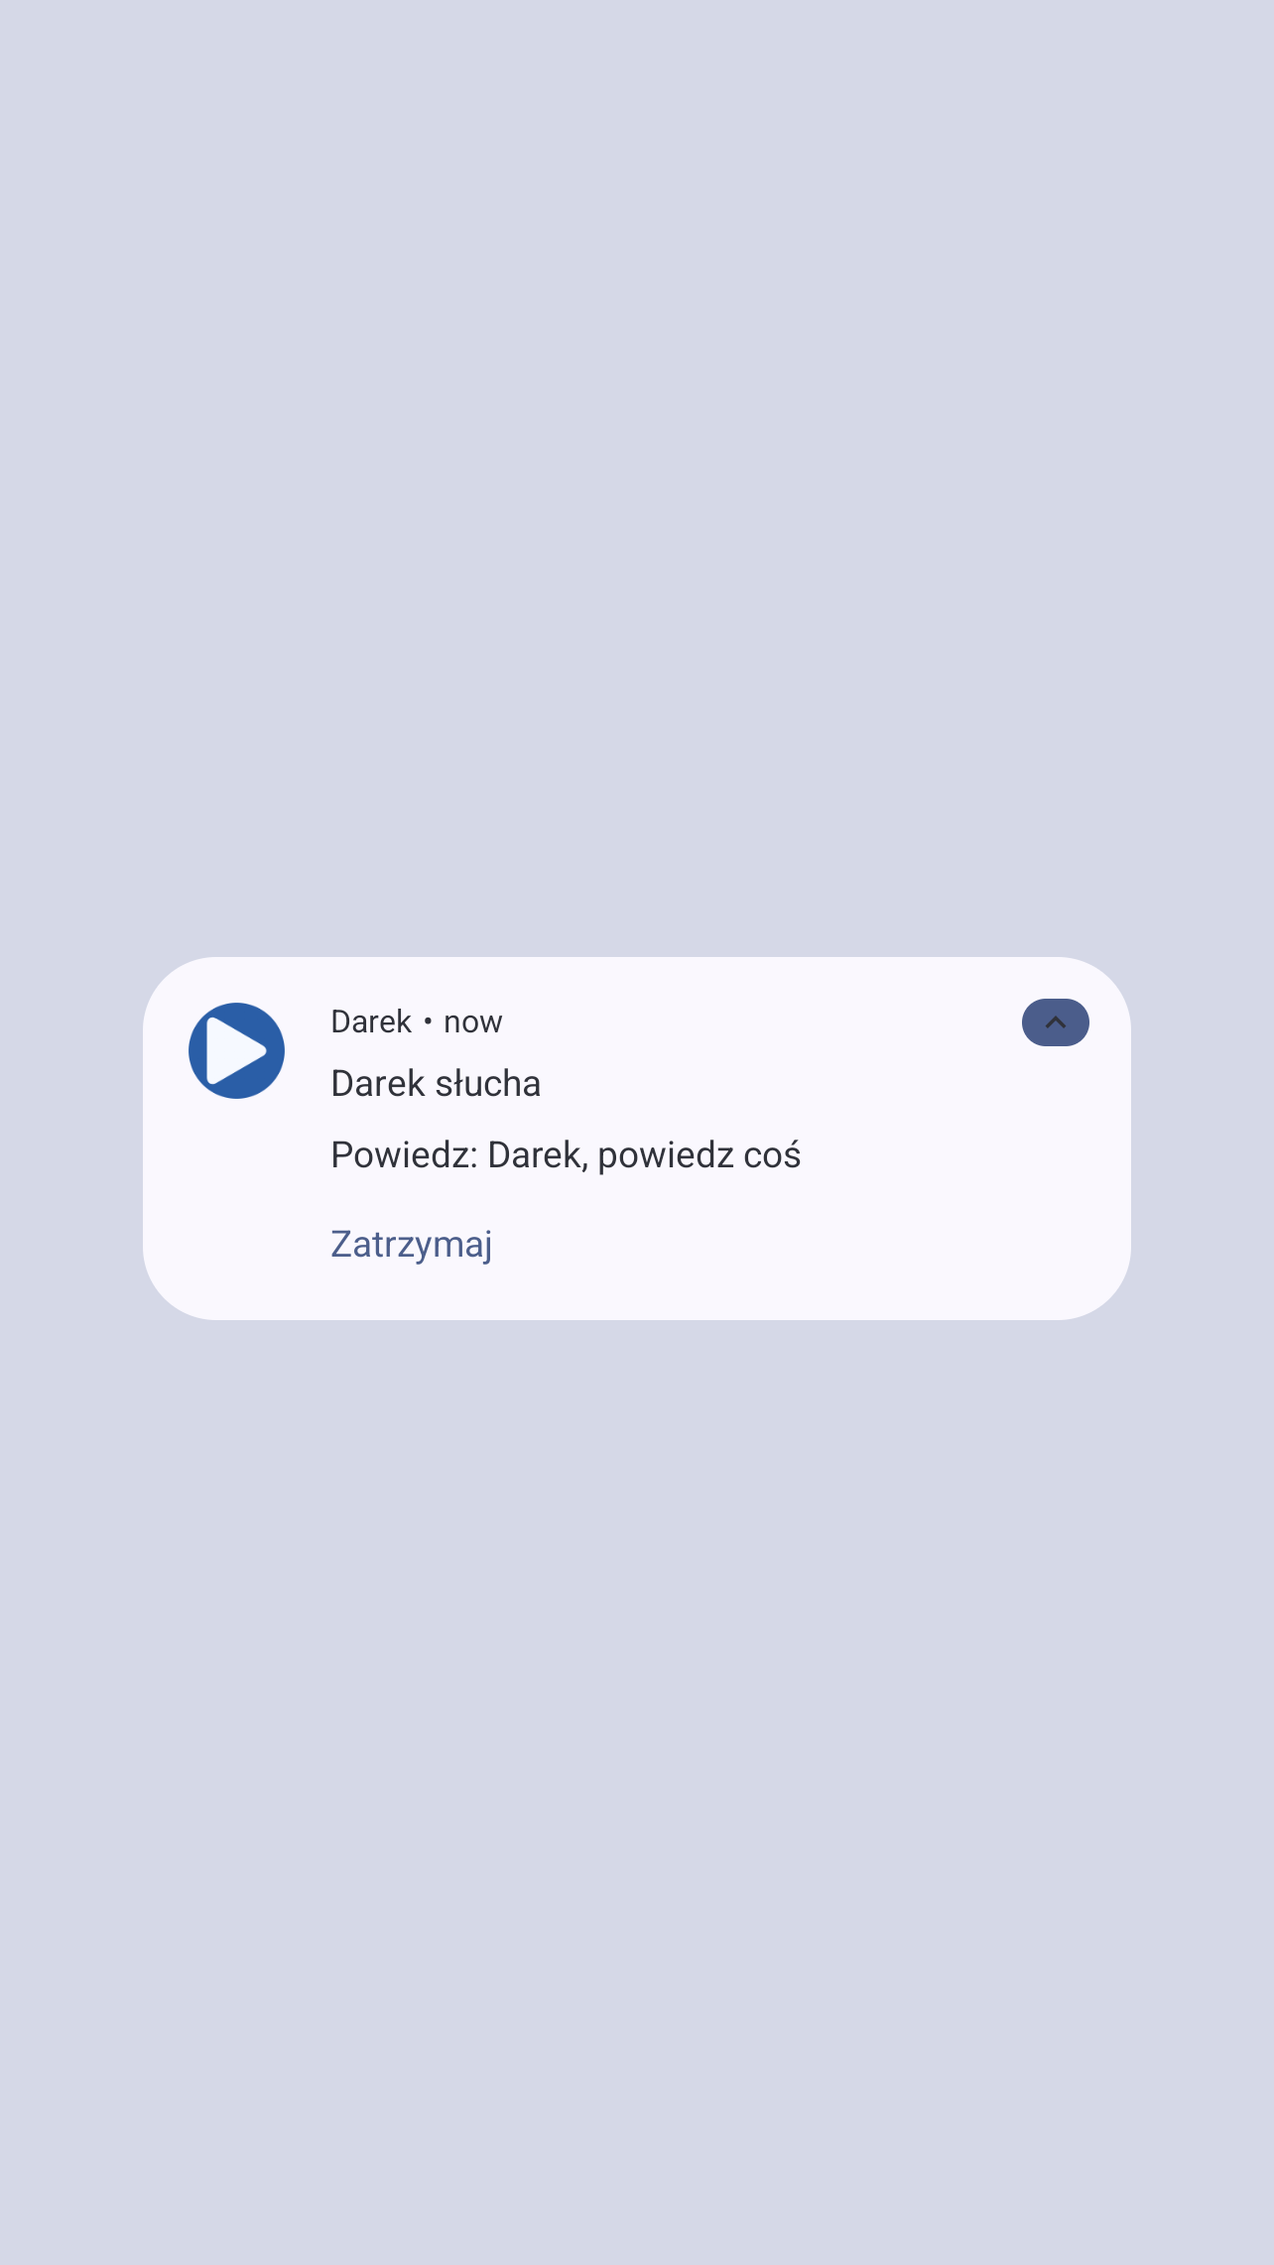
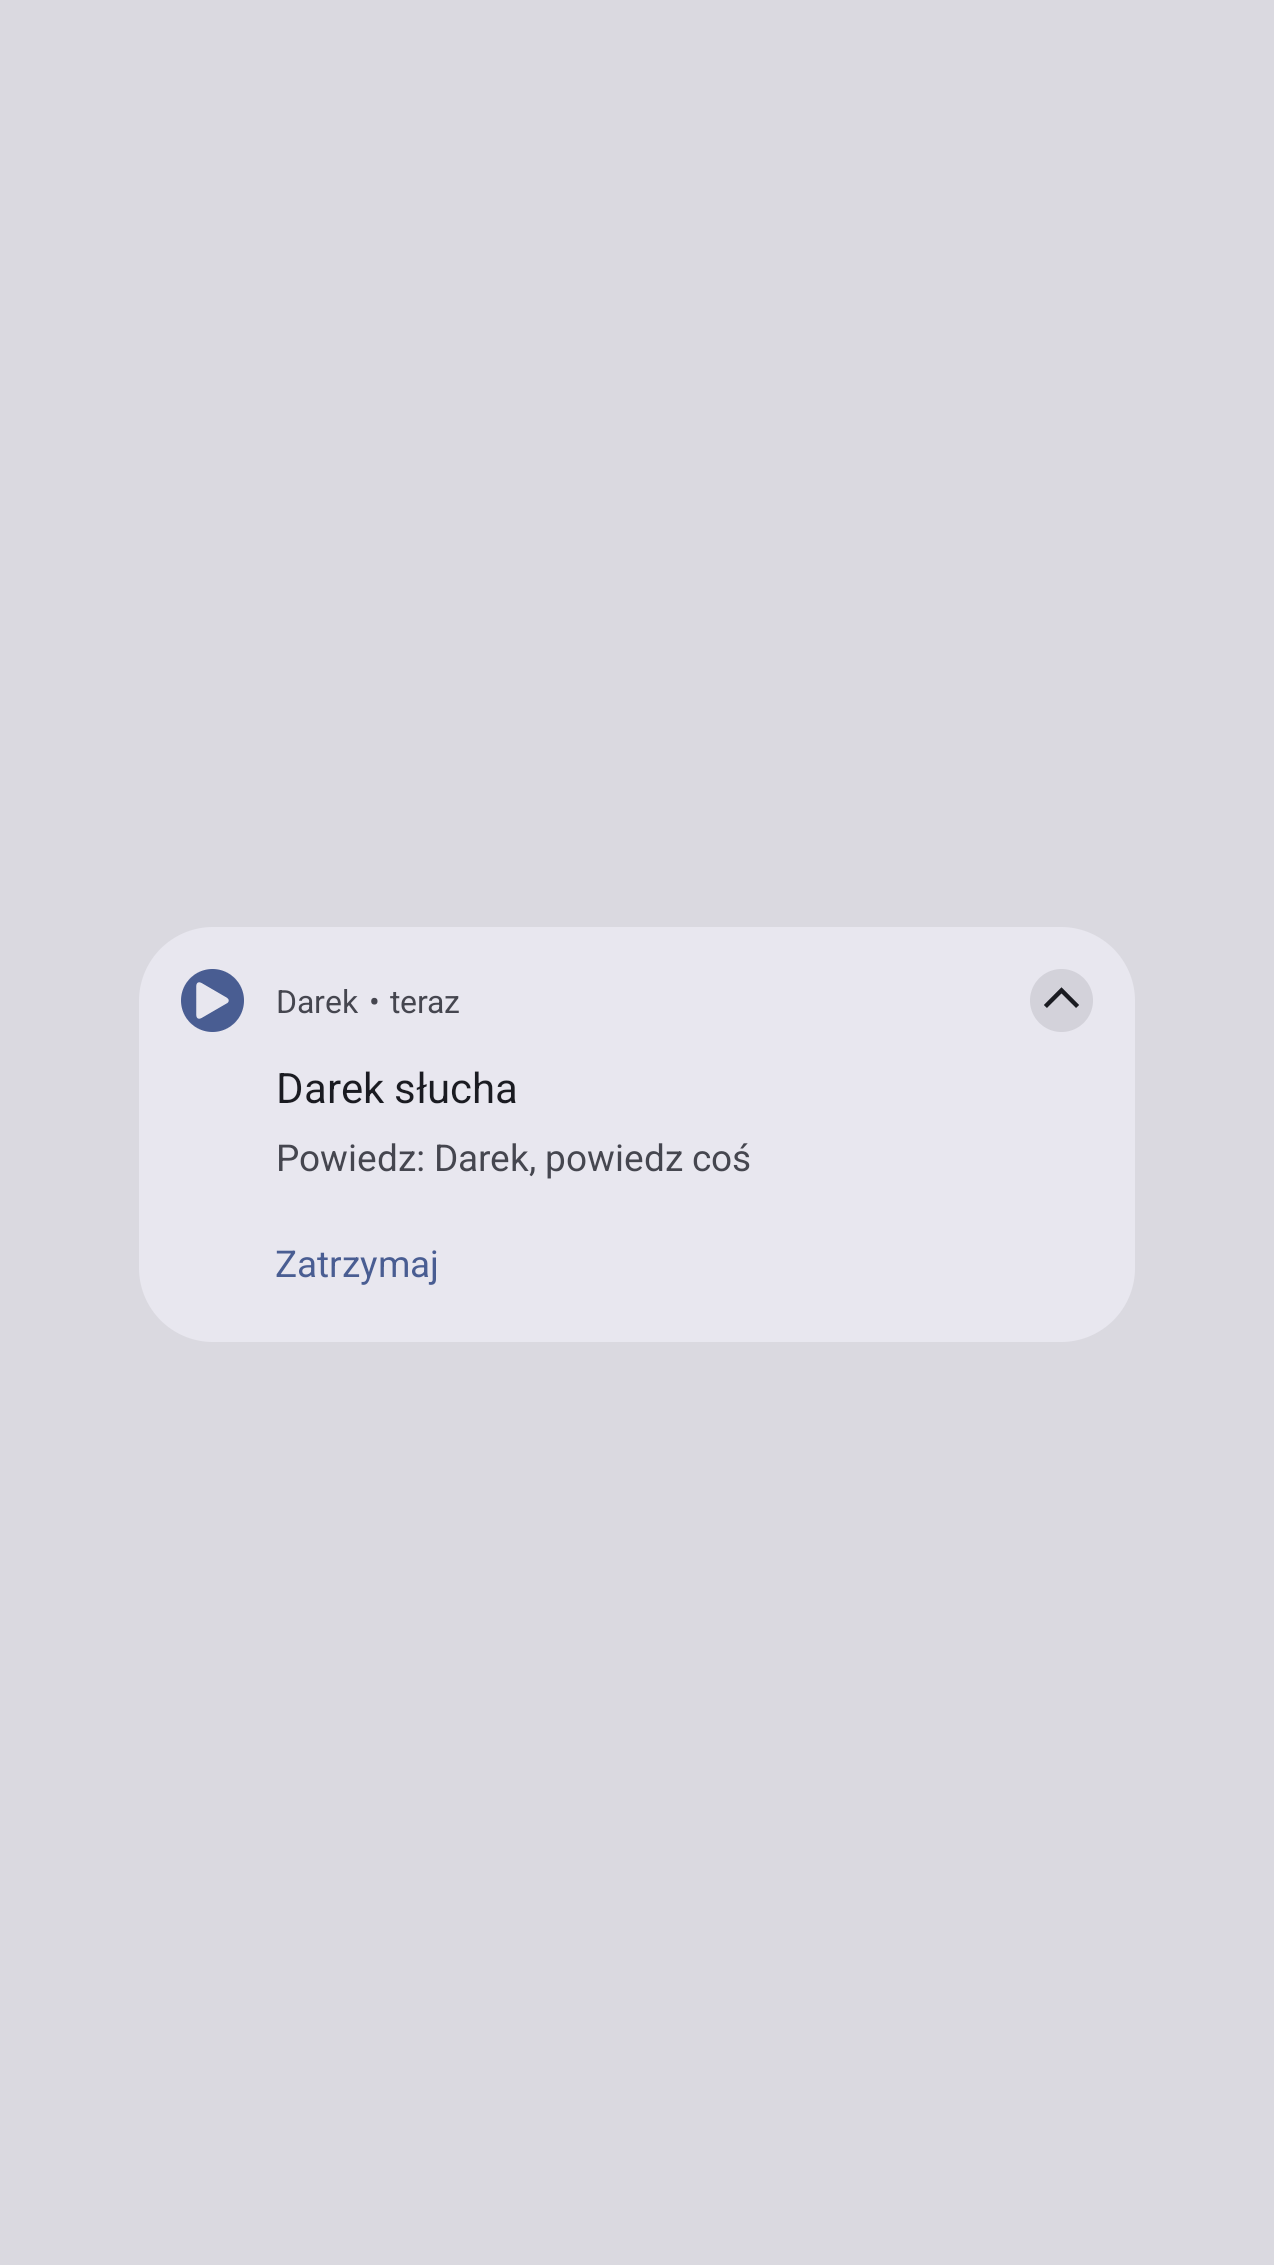
docs: re-shoot the Polish notification in Polish and end Settings on a whole row

Changed region(s): [[0.1224, 0.4018, 0.6122, 0.5872], [0.7959, 0.4018, 0.8571, 0.4636]]

diff --git a/docs/DOD.md b/docs/DOD.md
@@ -75,7 +75,9 @@ close. Whenever `APP_SCHEMA_VERSION` changes, all five hold before the release g
       (`screencap` + `pad-screenshot.py --status-bar-px 75`), because `screenshots.py --locale`
       needs API 33 and the test phone is API 30. Re-shot 2026-11-13 for phase 2 on the API 37
       emulator from a release build: Home, the background disclosure, Listening, the notification
-      (cropped to the card, so the shade's system chrome stays out) and Settings with *W tle*.
+      (cropped to the card, so the shade's system chrome stays out) and Settings with *W tle*. The
+      Polish notification was re-shot the same day on the API 36 emulator with the system language
+      Polish, so its header reads *„Darek • teraz"*.
 - [ ] **Put the app on maksforge.com.** Its icon goes at `assets/icons/<repo>.webp` in
       maks-sredniawa/maks-sredniawa.github.io, which the app's own site loads, and the app goes on that home
       page. Replace `description` in `docs/_config.yml` too: it is the tagline under the app's name.
